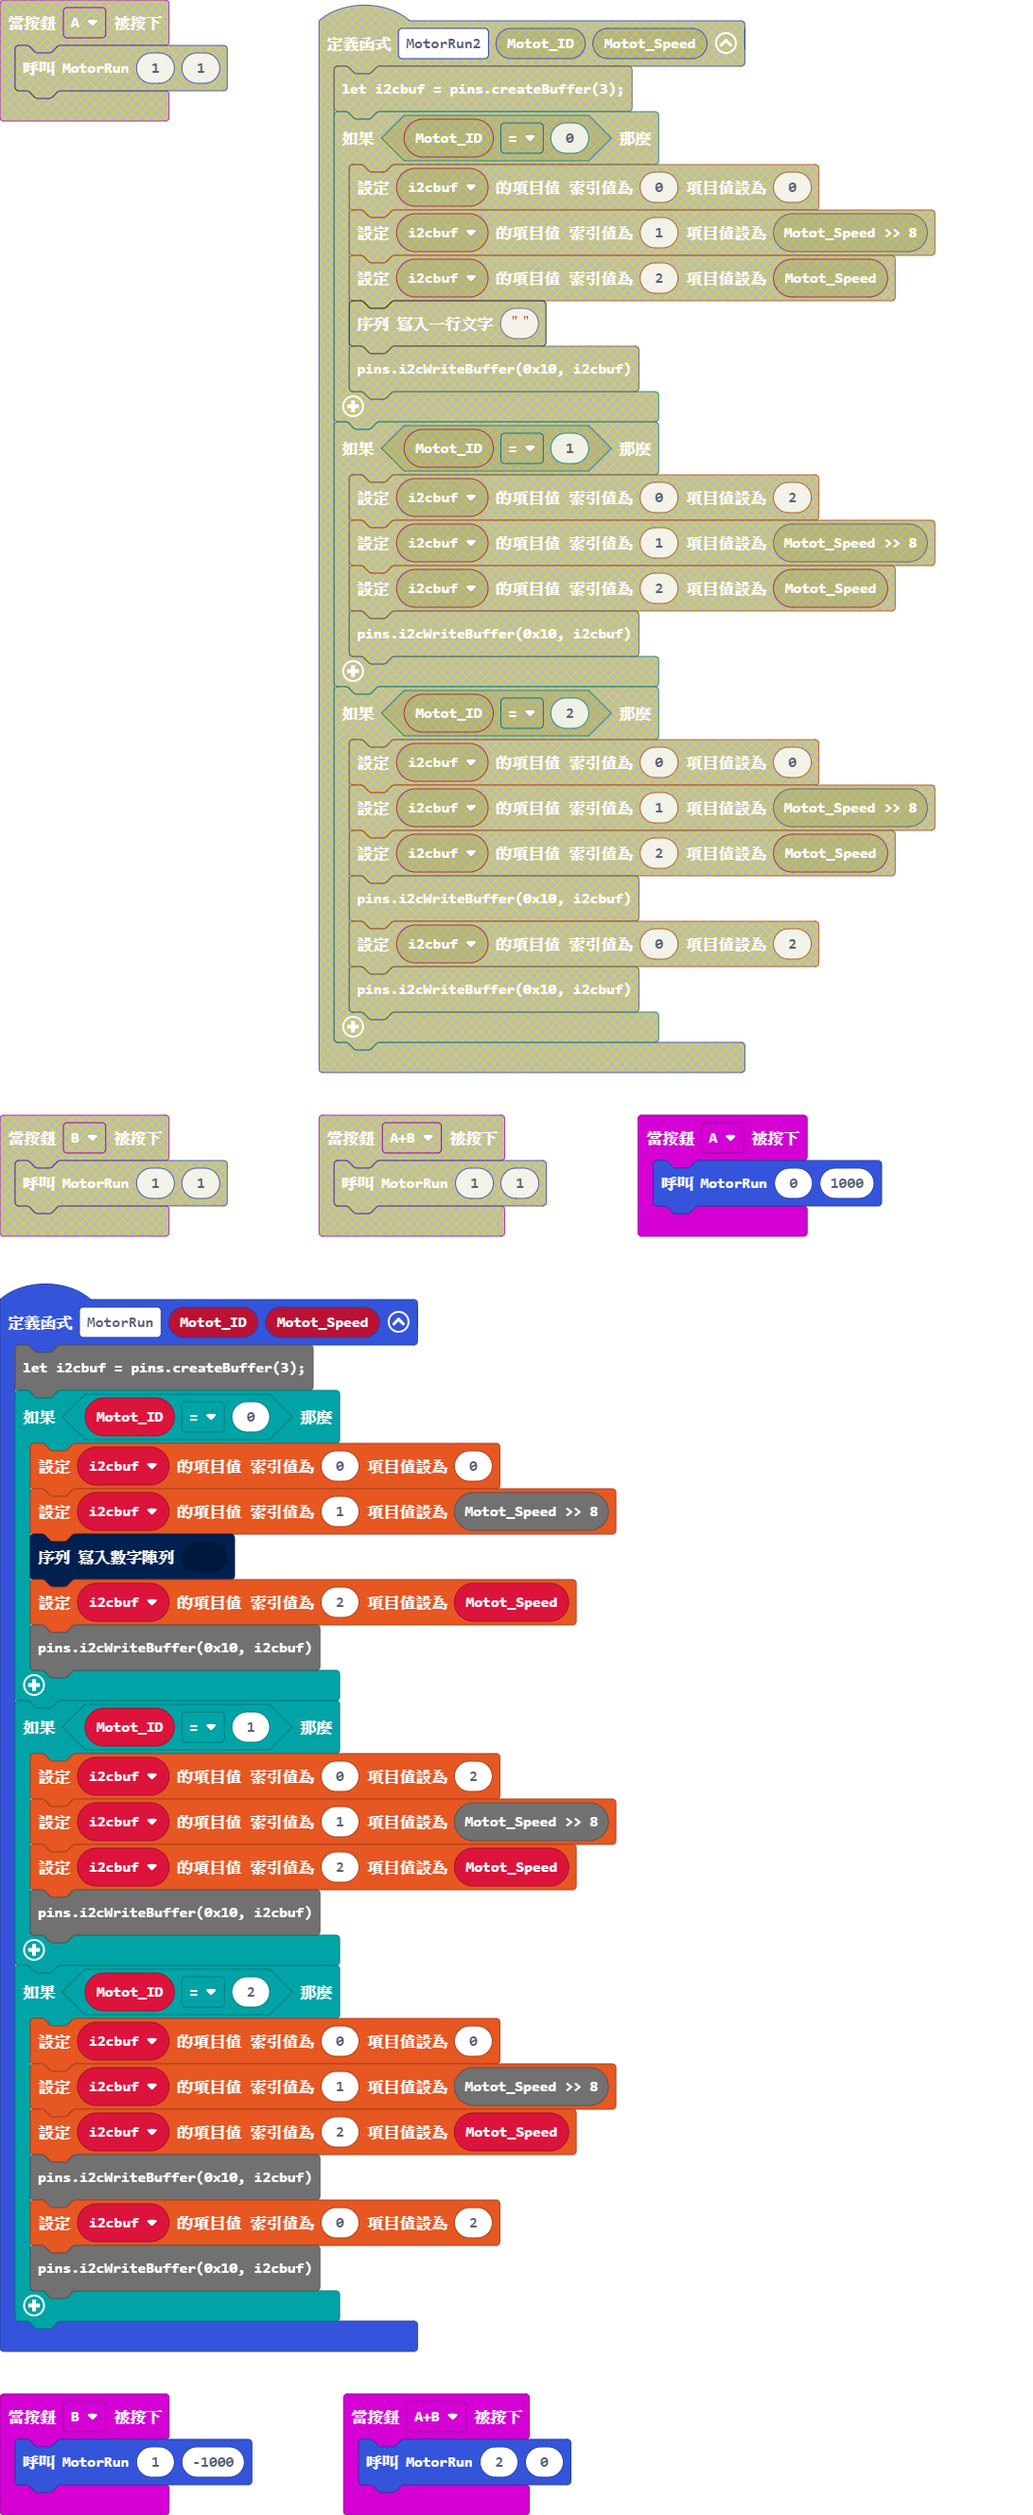
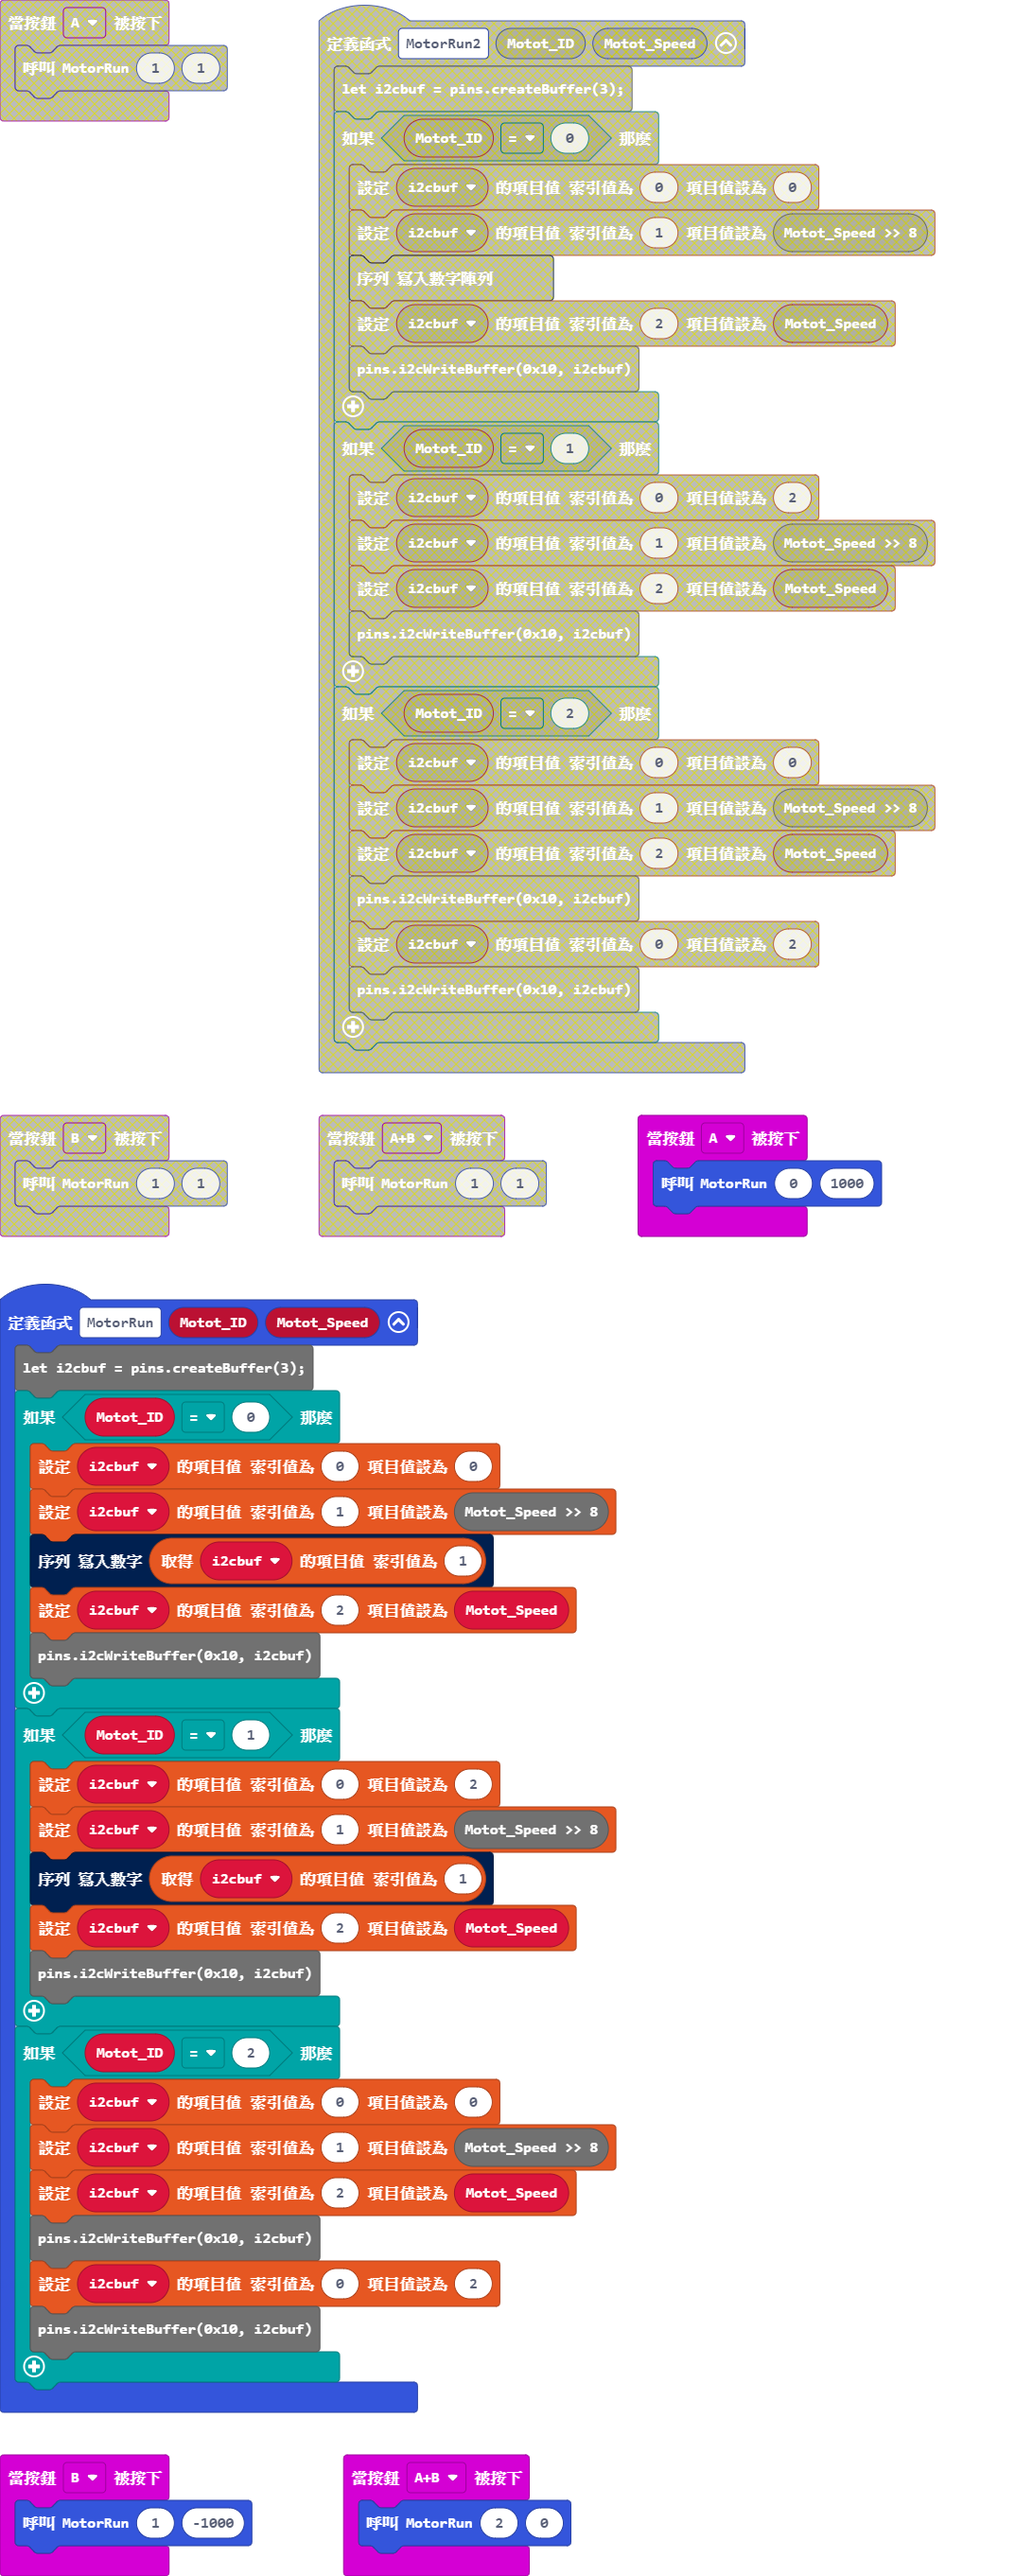
Update pxt.json, main.blocks, main.ts

Changed region(s): [[0.0, 0.0, 0.9029, 0.9989], [0.0, 0.0, 0.2179, 0.0624]]

diff --git a/main.ts b/main.ts
@@ -12,13 +12,14 @@ function MotorRun (Motot_ID: number, Motot_Speed: number) {
 if (Motot_ID == 0) {
         i2cbuf[0] = 0
         i2cbuf[1] = Motot_Speed >> 8
-        serial.writeNumbers(i2cbuf)
+        serial.writeNumber(i2cbuf[1])
         i2cbuf[2] = Motot_Speed
         pins.i2cWriteBuffer(0x10, i2cbuf)
     }
     if (Motot_ID == 1) {
         i2cbuf[0] = 2
         i2cbuf[1] = Motot_Speed >> 8
+        serial.writeNumber(i2cbuf[1])
         i2cbuf[2] = Motot_Speed
         pins.i2cWriteBuffer(0x10, i2cbuf)
     }
